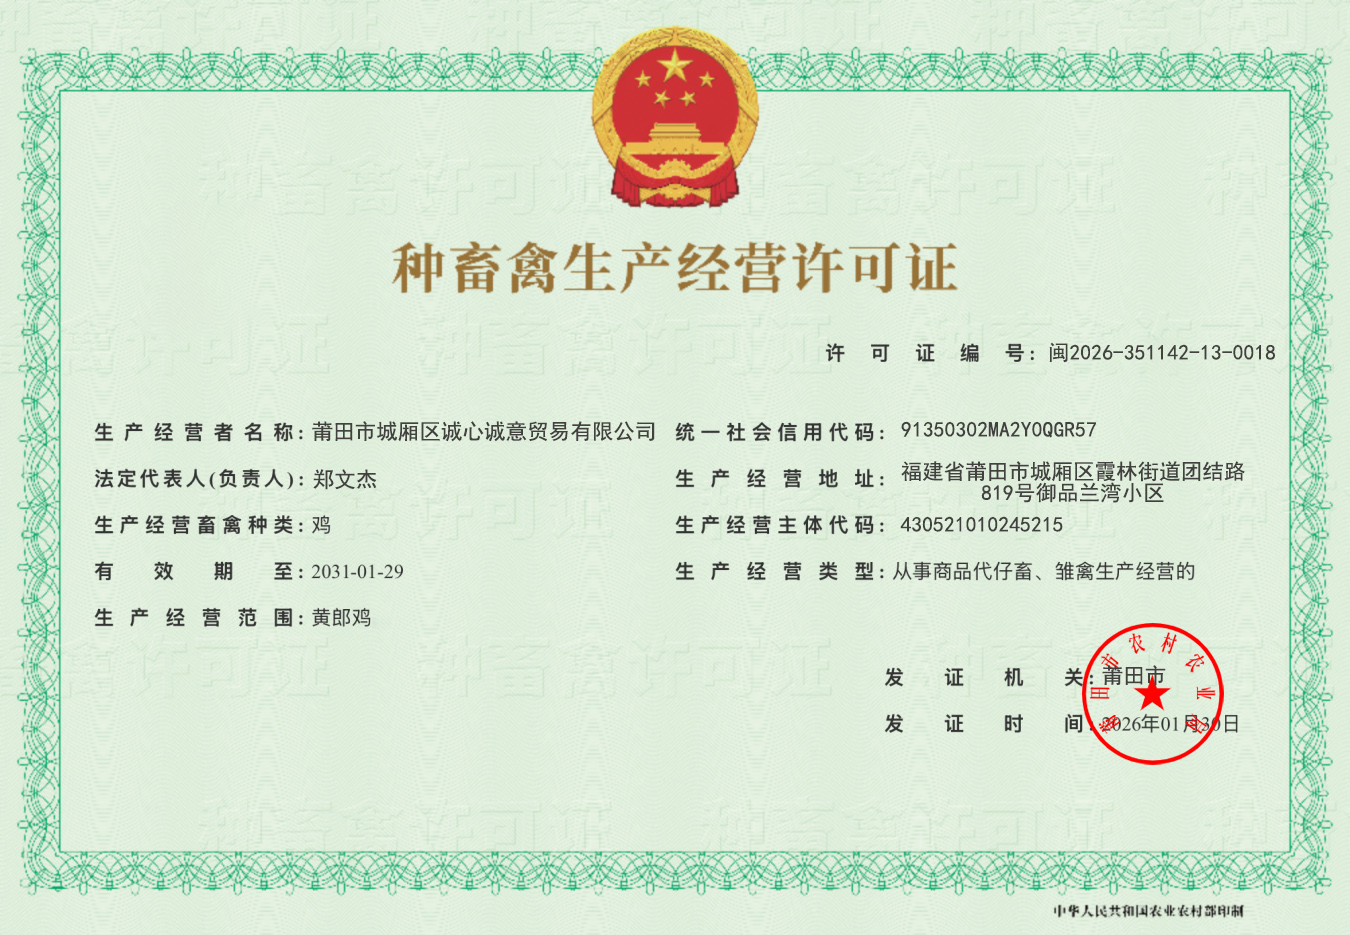
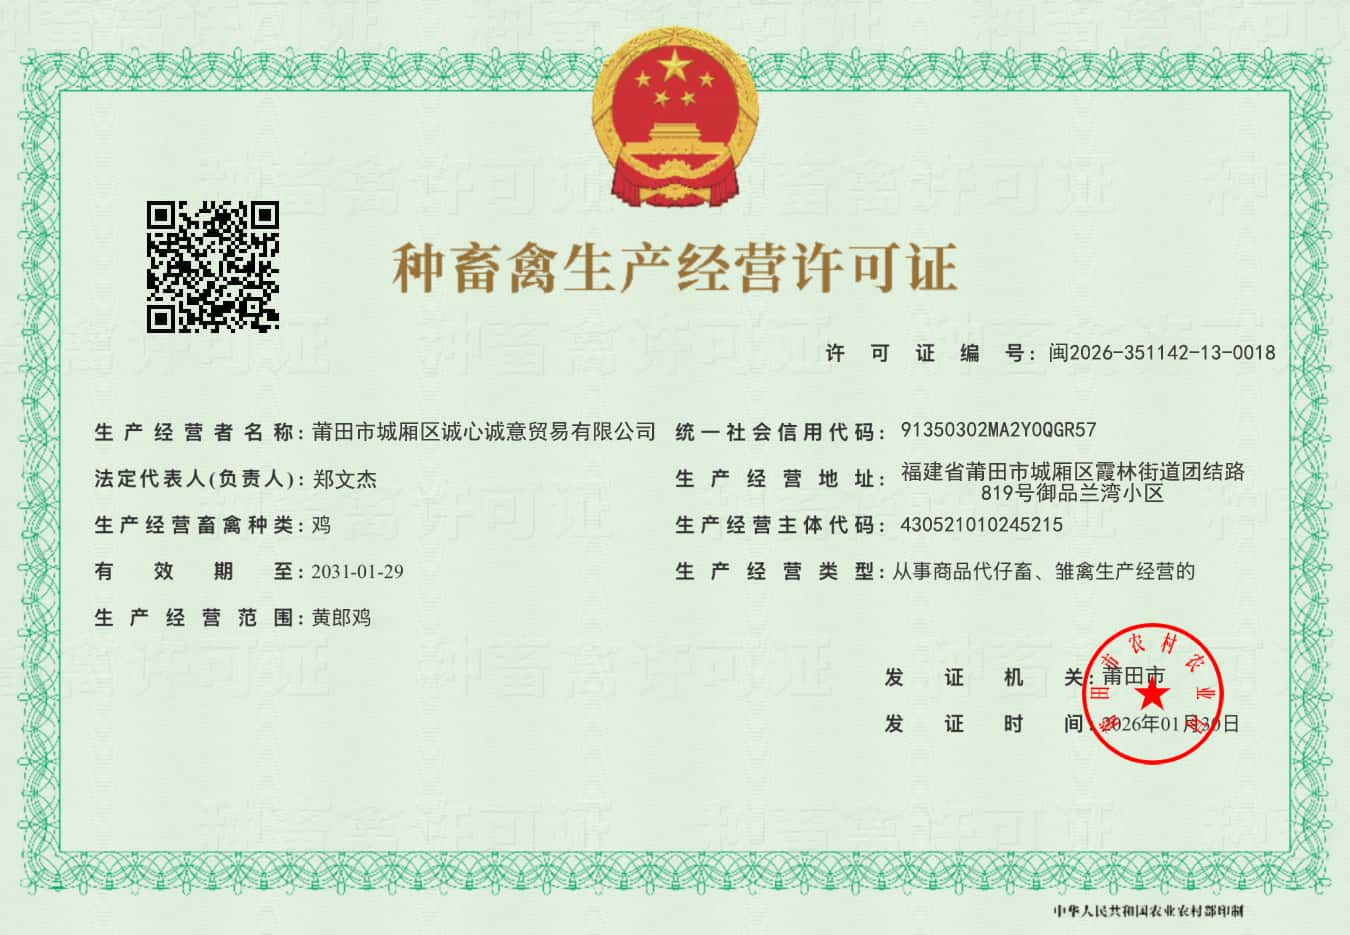
Add files via upload

diff --git a/20261029/20261029_1.html b/20261029/20261029_1.html
@@ -76,27 +76,27 @@
                 <div data-v-5db27be6="" data-v-5e9b46f6="" class="list-item">
                     <div data-v-5db27be6="" class="van-cell van-cell--borderless item_APPLY_CMPY">
                         <div data-v-5db27be6="" class="van-cell__title"><span data-v-5db27be6="">生产经营者名称</span></div>
-                        <div data-v-5db27be6="" class="van-cell__value"><span data-v-5db27be6="">邵东市潇湘鸣农业发展有限公司</span></div>
+                        <div data-v-5db27be6="" class="van-cell__value"><span data-v-5db27be6="">莆田市城厢区诚心诚意贸易有限公司</span></div>
                     </div>
                     <div data-v-5db27be6="" class="van-cell van-cell--borderless item_LICENSECODE">
                         <div data-v-5db27be6="" class="van-cell__title"><span data-v-5db27be6="">许可证编号</span></div>
-                        <div data-v-5db27be6="" class="van-cell__value"><span data-v-5db27be6="">湘2026-430582-13-0015</span></div>
+                        <div data-v-5db27be6="" class="van-cell__value"><span data-v-5db27be6="">闽2026-351142-13-0018</span></div>
                     </div>
                     <div data-v-5db27be6="" class="van-cell van-cell--borderless item_SOCIAL_CREDIT_CODE">
                         <div data-v-5db27be6="" class="van-cell__title"><span data-v-5db27be6="">统一社会信用代码</span></div>
-                        <div data-v-5db27be6="" class="van-cell__value"><span data-v-5db27be6="">91430521MA4L33FM3C</span></div>
+                        <div data-v-5db27be6="" class="van-cell__value"><span data-v-5db27be6="">91350302MA2Y00GR57</span></div>
                     </div>
                     <div data-v-5db27be6="" class="van-cell van-cell--borderless item_APPLY_LEGAL_REPRESENT">
                         <div data-v-5db27be6="" class="van-cell__title"><span data-v-5db27be6="">法定代表人(负责人)</span></div>
-                        <div data-v-5db27be6="" class="van-cell__value"><span data-v-5db27be6="">粟顺英</span></div>
+                        <div data-v-5db27be6="" class="van-cell__value"><span data-v-5db27be6="">郑文杰</span></div>
                     </div>
                     <div data-v-5db27be6="" class="van-cell van-cell--borderless item_QR_ALL_ADDRESS">
                         <div data-v-5db27be6="" class="van-cell__title"><span data-v-5db27be6="">生产经营地址</span></div>
-                        <div data-v-5db27be6="" class="van-cell__value"><span data-v-5db27be6="">湖南省邵东市仙槎桥镇白沙村</span></div>
+                        <div data-v-5db27be6="" class="van-cell__value"><span data-v-5db27be6="">福建省莆田市城厢区霞林街道团结路819号御品兰湾小区</span></div>
                     </div>
                     <div data-v-5db27be6="" class="van-cell van-cell--borderless item_LIVESTOCK_BREED_CODE">
                         <div data-v-5db27be6="" class="van-cell__title"><span data-v-5db27be6="">生产经营主体代码</span></div>
-                        <div data-v-5db27be6="" class="van-cell__value"><span data-v-5db27be6="">430521010002569</span></div>
+                        <div data-v-5db27be6="" class="van-cell__value"><span data-v-5db27be6="">430521010245215</span></div>
                     </div>
                     <div data-v-5db27be6="" class="van-cell van-cell--borderless item_APPLY_PERMIT_TYPE">
                         <div data-v-5db27be6="" class="van-cell__title"><span data-v-5db27be6="">生产经营类型</span></div>
@@ -104,7 +104,7 @@
                     </div>
                     <div data-v-5db27be6="" class="van-cell van-cell--borderless item_QR_CODE_PRODUCE_ECONOMY_RANG">
                         <div data-v-5db27be6="" class="van-cell__title"><span data-v-5db27be6="">生产经营范围</span></div>
-                        <div data-v-5db27be6="" class="van-cell__value"><span data-v-5db27be6="">黄郎鸡,</span></div>
+                        <div data-v-5db27be6="" class="van-cell__value"><span data-v-5db27be6="">黄郎鸡</span></div>
                     </div>
                     <div data-v-5db27be6="" class="van-cell van-cell--borderless item_APPLY_ANIMAL_PERMIT_CARD_DATE">
                         <div data-v-5db27be6="" class="van-cell__title"><span data-v-5db27be6="">发证日期</span></div>
@@ -124,7 +124,7 @@
                     </div>
                     <div data-v-5db27be6="" class="van-cell van-cell--borderless item_APPLY_ANIMAL_PERMIT_CARD_CMPY">
                         <div data-v-5db27be6="" class="van-cell__title"><span data-v-5db27be6="">发证机关</span></div>
-                        <div data-v-5db27be6="" class="van-cell__value"><span data-v-5db27be6="">邵东市</span></div>
+                        <div data-v-5db27be6="" class="van-cell__value"><span data-v-5db27be6="">莆田市</span></div>
                     </div>
                     <div data-v-5db27be6="" class="btns">
                         <div data-v-5db27be6="" style="flex: 1 1 0%;"></div><button data-v-5db27be6="" class="van-button van-button--default van-button--normal van-button--plain van-button--hairline van-button--round van-hairline--surround" style="color: rgb(71, 156, 248); border-color: rgb(71, 156, 248);">
